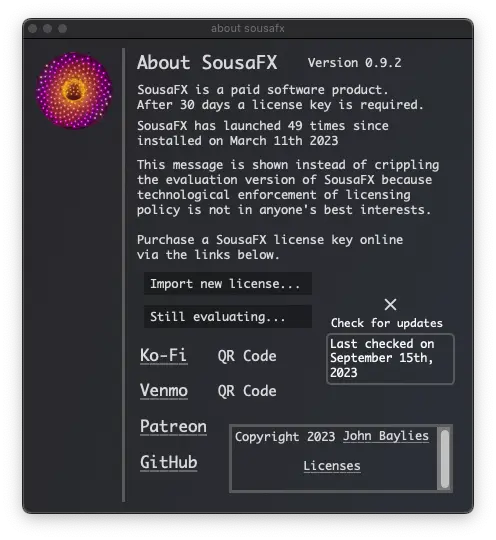
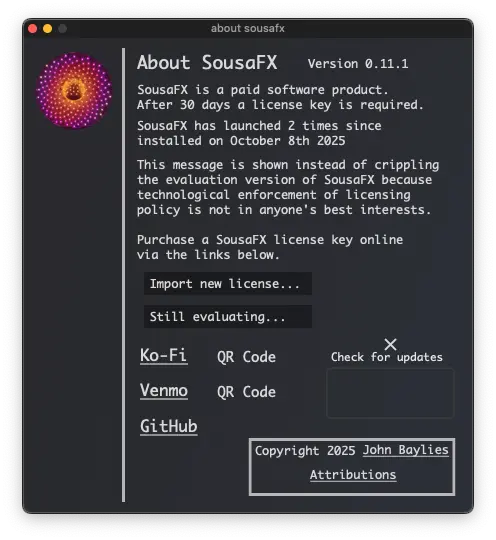
misc updates

diff --git a/docs/attributions.md b/docs/attributions.md
@@ -2,22 +2,30 @@
 
 ## Patchers
 
-The pitch shifter, overdrive, noise gate, plate reverb, limiter, and compressor are from the [RNBO Guitar Pedals Package](https://cycling74.com/products/rnbo-guitar-pedals). [K-weighting](https://www.itu.int/dms_pubrec/itu-r/rec/bs/R-REC-BS.1770-5-202311-I!!PDF-E.pdf) has been added to the compressor and limiter's sidechain.
+The pitch shifter, overdrive, noise gates, plate reverbs, limiters, and compressors are from the [RNBO Guitar Pedals Package](https://cycling74.com/products/rnbo-guitar-pedals). [K-weighting](https://www.itu.int/dms_pubrec/itu-r/rec/bs/R-REC-BS.1770-5-202311-I!!PDF-E.pdf) has been added to the compressor and limiter's sidechain.
 
 A handful of gen abstractions are from [Graham Wakefield](https://github.com/grrrwaaa) & [Gregory Taylor](https://cycling74.com/articles/an-interview-with-gregory-taylor) - [Generating Sound and Organizing Time](https://cycling74.com/books/go)
 
 The thumbstick deadzones in `deadzone scaled radial.maxpat` are thanks to [TFL](https://cycling74.com/forums/scaled-radial-deadzone-for-gamepad-joystick#reply-68021c0c3bd53f00135efbe2), [Minimuino](https://github.com/Minimuino/thumbstick-deadzones), and [Josh Sutphin](https://joshsutphin.com/gamedev/doing-thumbstick-dead-zones-right.html)
 
-`jb.autowah` uses work from [Emmanuel Jourdan and Oren Shoham](https://cycling74.com/forums/math-behind-function-curve#reply-6006263e0da59906d7aff1c2
-) to emulate the `function` object at audio-rate in rnbo. It also uses [h1data](https://github.com/h1data/max-custom-adsr)'s custom gen~ adsr.
+`jb.autowah` and `jb.kickduck` use Emmanuel Jourdan / Oren Shoham's [function emulator](https://cycling74.com/forums/math-behind-function-curve#reply-6006263e0da59906d7aff1c2) 
+
+`jb.autowah` uses h1data's [gen~ adsr](https://github.com/h1data/max-custom-adsr)
 
 `jb.looper` uses Leigh Marble's [tap_processor](https://cycling74.com/forums/how-to-make-a-double-tapclick-button-for-monome#reply-58ed2100b7244922ce26383c)
 
-`gp.filterdelaywrap` uses Alex M's [springto](https://discord.com/channels/289378508247924738/289378711533387777/1406779779449098341)
+`gp.filterdelaywrap` and `jb.autowah` use Alex M's [springto](https://discord.com/channels/289378508247924738/289378711533387777/1406779779449098341)
 
 The licence checker uses Floating Point's [Gregorian-Julian date converter](https://cycling74.com/forums/what-do-you-do-when-number-is-too-big-to-process#reply-58ed208843f50b22d4bb16c8)
 
+## Media
+
+The drums are sampled from the infamous [BKE Beat Thang](https://youtu.be/4k04fq91Rns)
+
+The looper sound alerts are Mac OS 9's [system sounds](https://mac-classic.com/downloads/system-sounds)
+
 The input display uses pngs from [Kenney's Input Prompts](https://kenney.nl/assets/input-prompts), and an svg from [joypixels' Emojione Mono Emojis](https://www.svgrepo.com/svg/404309/white-circle)
+
 
 ## Filters
 

diff --git a/docs/modding.md b/docs/modding.md
@@ -1,29 +1,21 @@
 # Modding
 
-For release versions, the core of SousaFX is compiled into a max external, and can not be opened.
-
-To access the internals:
+To access the internals (on mac):
 
 Clone this repository: [https://github.com/Sousastep/SousaFX-rnbo](https://github.com/Sousastep/SousaFX-rnbo) (or click the green "Code" button, then click "Download ZIP")
 
-Double-click `SousaFX-rnbo.maxproj`, then wait a minute for it to compile.
+Open `SousaFX-rnbo.maxproj`
 
-Press `option m`, or click `menubar > File > Max Menus` to disable the custom menubar.
+Disable the custom menubar with `option m`, or `menubar > File > Max Menus`
 
-Press `option command e`, or click `menubar > View > Presentation` to exit presentation mode.
+Exit presentation mode with `option command e`, or `menubar > View > Presentation`
 
 Click the message that says `window flags nofloat, window flags zoom, window flags grow, window exec, savewindow 0`
 
-Double-click the title bar to fullscreen the window.
+Fullscreen the window by double-clicking the title bar.
 
-Find the `rnbo~ @patchername gamepad_input @parameter_enable 0 @autosave 0 @autobuild 1` object, and double-click it.
-
-On the bottom left of the inaptly-named "gamepad_input" patcher window, click the "Disable Auto-Compile" toggle, otherwise any small change triggers a 1-minute recompilation.
+Find the `rnbo~ @patchername gamepad_input @parameter_enable 0 @autosave 0 @autobuild 0` object, and double-click it.
 
 Press `option command m`, or click the pencil icon in the bottom left, to modify read-only.
 
-[![signal flow](img/signal_flow.webp)](img/signal_flow.webp){target="_blank"}
-
-Feel free to ask questions in the discord, linked in the bottom right ↘
-
-![glhf](img/glhf.avif)
+Feel free to ask questions in the discord, linked below.

diff --git a/.github/sousafx-release.md b/.github/sousafx-release.md
@@ -1,0 +1,44 @@
+# How To Release SousaFX
+
+## sousaFX-rnbo-docs
+```
+cd ~/Documents/SousaFX-rnbo-docs && git status; source myenv/bin/activate
+```
+
+### build & deploy docs
+```
+git add .;git commit -m "message"
+mike deploy v#.#.#
+mike set-default v#.#.#
+git push origin --all
+
+OFFLINE=true mkdocs build --clean --site-dir /Users/jbaylies/Documents/Max\ 8/Projects/SousaFX-rnbo/.docs
+```
+
+## sousaFX-rnbo
+```
+cd ~/Documents/Max\ 8/Projects/SousaFX-rnbo && git status
+```
+
+open project. in "About SousaFX" window, edit and save loadmess #.#.#
+
+```
+git commit -m "message"
+git tag v#.#.#
+git push
+git push origin --tags
+```
+
+File > Save As Project...
+
+name sousaFX-v#.#.#
+
+file edits
+	remove .js files
+	add drum samples
+	compile and add externals for mac and windows
+	add local documentation
+
+zip, named sousaFX-v#.#.#.zip
+
+attach zip to github release as a binary.

diff --git a/docs/bindings.md b/docs/bindings.md
@@ -203,6 +203,12 @@ If the d-pad is pressed quickly, the delays will not pitch shift while the delay
 
 - Bassline delay send, and solo delay send.
 
+- Drum delay send, and bassline looper delay send:
+
+	Allowed when the tuba's silent, & the right thumbstick is within its deadzone.
+
+	Disallowed when the tuba starts playing.
+
 ### Right
 
 - Main reverb send.
@@ -212,12 +218,4 @@ If the d-pad is pressed quickly, the delays will not pitch shift while the delay
 	Allowed when the tuba's silent, & the right thumbstick is within its deadzone.
 
 	Denied when the tuba's playing, & the right thumbstick is within its deadzone.
-
-### Left and Right
-
-- Drum delay send, and bassline looper delay send:
-
-	Allowed when the tuba's silent, & the right thumbstick is within its deadzone.
-
-	Disallowed when the tuba starts playing.
 
